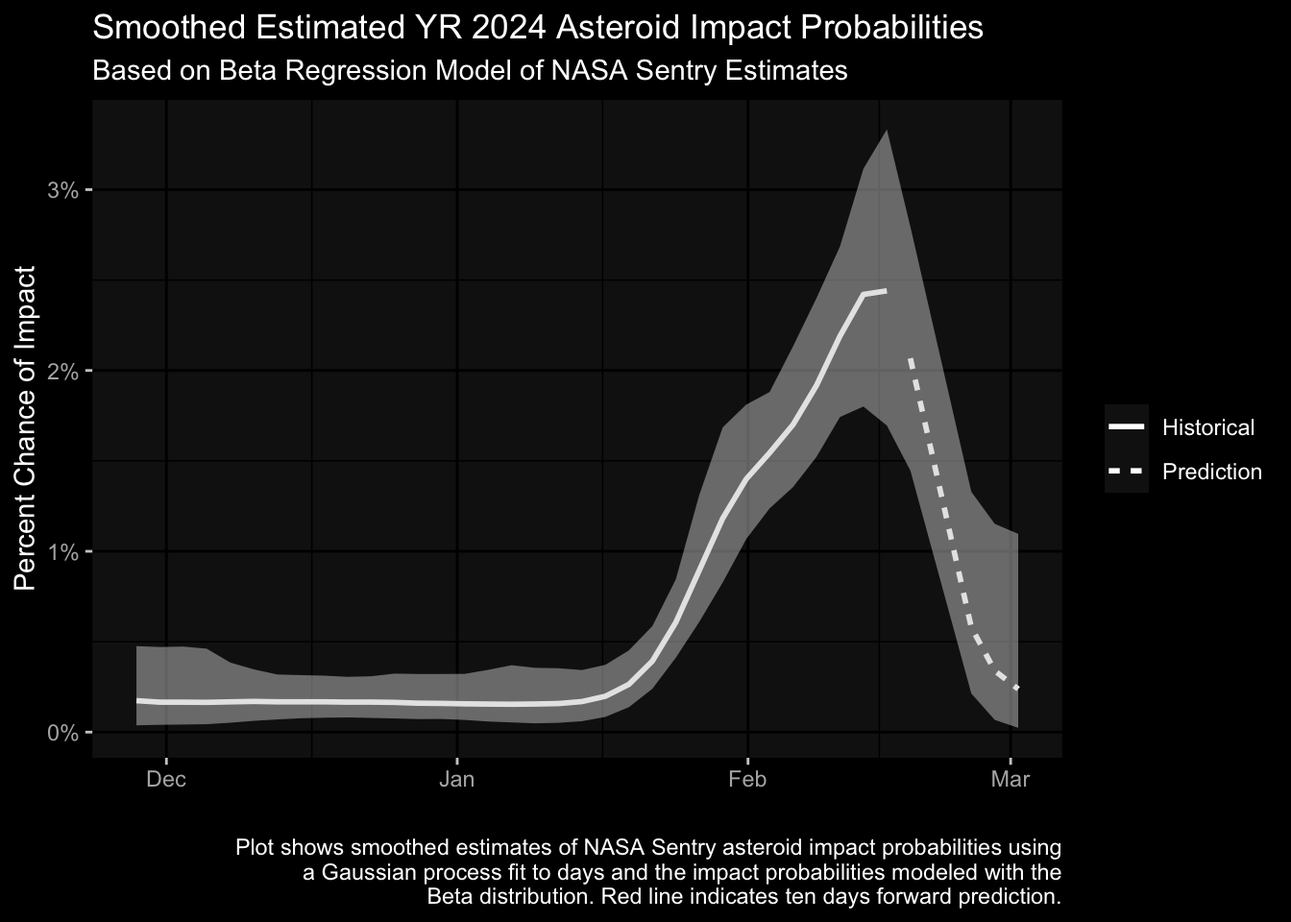
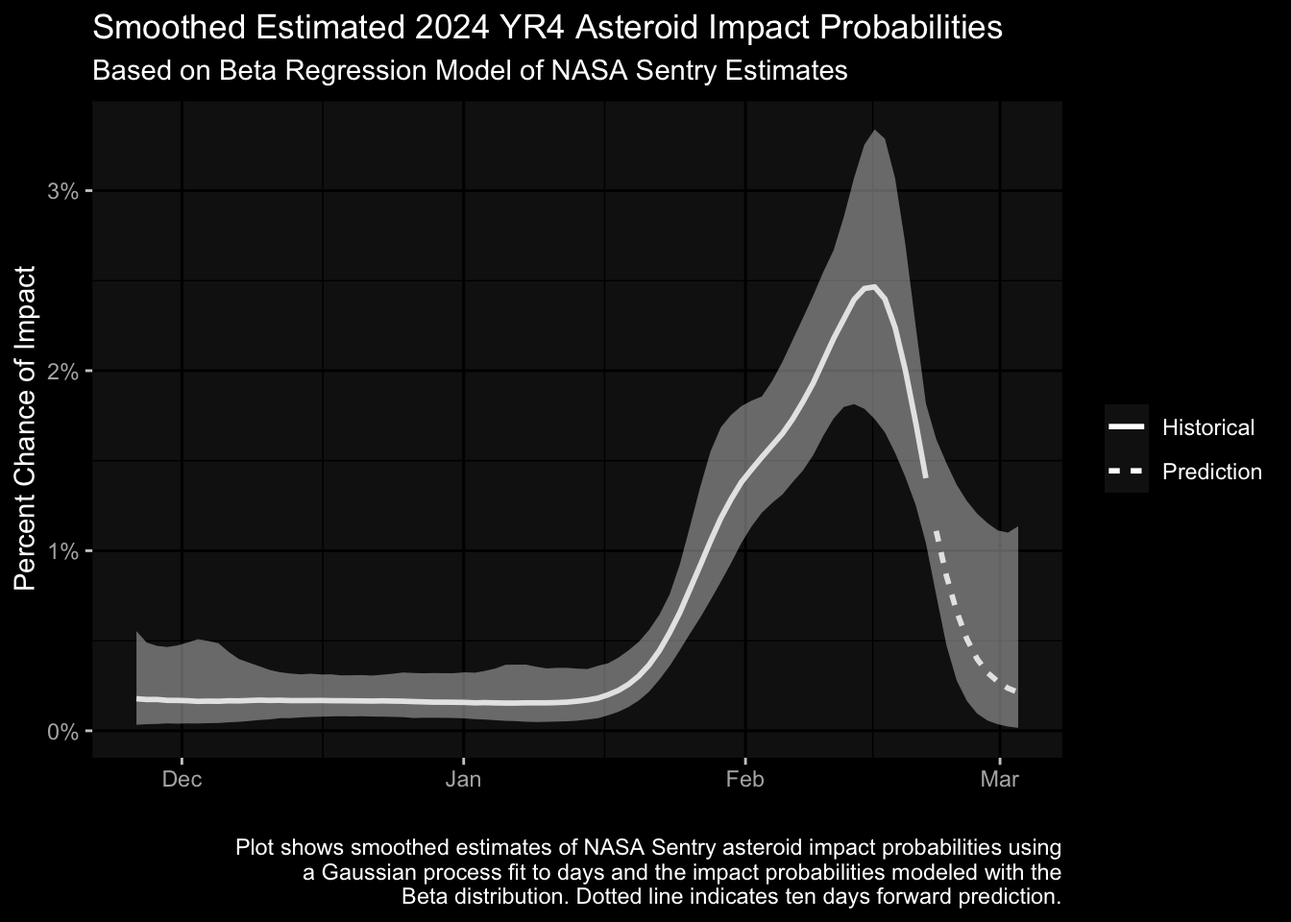
NASA Sentry smoother prediction 2025-02-21

diff --git a/_site/post/nasa_beta/index.html b/_site/post/nasa_beta/index.html
@@ -360,7 +360,7 @@ gtag('config', 'G-BHP1PJ9LEX', { 'anonymize_ip': true});
 <p>I really don’t have any criticisms of the model, and I would note it is remarkably clear as I can understand a fair amount of the paper without having much knowledge of orbital mechanics.</p>
 <p>The issue is not with the model, but what we do with the predictions of the model. Each day it produces an estimate of impact probabilities as a proportion of the simulations that have the asteroid slamming into Earth. But that probability will change over time as they get more observations of the asteroid. We can think of this additional variation as amounting to <em>measurement uncertainty</em>: we aren’t really sure what the asteroid is and what stands in its path to earth.</p>
 <p>As a result, the probabilities can go up and down from day to day, which can be confusing for people trying to follow along. As I mentioned, the probability just jumped up to 2.6% and then down to 1.5% in the same week.</p>
-<p>I collected the NASA Sentry data using the Wayback Machine (unfortunately, NASA does not have the historical data on its website, only the current day’s data). Here’s a plot of the estimates of YR 2024 impact probabilities since November 2024 up to February 18, 2025:</p>
+<p>I collected the NASA Sentry data using the Wayback Machine (unfortunately, NASA does not have the historical data on its website, only the current day’s data). Here’s a plot of the estimates of 2024 YR4 impact probabilities since November 2024 up to February 18, 2025:</p>
 <div class="cell" data-layout-align="center">
 <details class="code-fold">
 <summary>Show the code</summary>
@@ -371,7 +371,7 @@ gtag('config', 'G-BHP1PJ9LEX', { 'anonymize_ip': true});
 <span id="cb2-5"><a href="#cb2-5" aria-hidden="true" tabindex="-1"></a>  <span class="fu">scale_y_continuous</span>(<span class="at">labels =</span> scales<span class="sc">::</span><span class="fu">label_percent</span>()) <span class="sc">+</span></span>
 <span id="cb2-6"><a href="#cb2-6" aria-hidden="true" tabindex="-1"></a>  <span class="fu">labs</span>(<span class="at">y=</span><span class="st">"Asteroid Impact Chance"</span>,</span>
 <span id="cb2-7"><a href="#cb2-7" aria-hidden="true" tabindex="-1"></a>       <span class="at">x=</span><span class="st">""</span>,</span>
-<span id="cb2-8"><a href="#cb2-8" aria-hidden="true" tabindex="-1"></a>       <span class="at">caption=</span>stringr<span class="sc">::</span><span class="fu">str_wrap</span>(<span class="st">"Plot shows NASA Sentry asteroid impact estimates for YR 2024 as retrieved from the Wayback Machine. The plot starts in November 2024 and continues to February 18, 2025."</span>),<span class="at">title =</span> <span class="st">"NASA Sentry Asteroid Impact Estimates for YR 2024"</span>) <span class="sc">+</span></span>
+<span id="cb2-8"><a href="#cb2-8" aria-hidden="true" tabindex="-1"></a>       <span class="at">caption=</span>stringr<span class="sc">::</span><span class="fu">str_wrap</span>(<span class="st">"Plot shows NASA Sentry asteroid impact estimates for 2024 YR4 as retrieved from the Wayback Machine. The plot starts in November 2024 and continues to February 18, 2025."</span>),<span class="at">title =</span> <span class="st">"NASA Sentry Asteroid Impact Estimates for 2024 YR4"</span>) <span class="sc">+</span></span>
 <span id="cb2-9"><a href="#cb2-9" aria-hidden="true" tabindex="-1"></a>  ggdark<span class="sc">::</span><span class="fu">dark_mode</span>()</span></code><button title="Copy to Clipboard" class="code-copy-button"><i class="bi"></i></button></pre></div>
 </details>
 <div class="cell-output-display">
@@ -409,12 +409,12 @@ gtag('config', 'G-BHP1PJ9LEX', { 'anonymize_ip': true});
 <div class="cell-output cell-output-stdout">
 <pre><code>Running MCMC with 2 chains, at most 8 in parallel...
 
-Chain 1 finished in 44.4 seconds.
-Chain 2 finished in 48.8 seconds.
+Chain 1 finished in 46.0 seconds.
+Chain 2 finished in 50.3 seconds.
 
 Both chains finished successfully.
-Mean chain execution time: 46.6 seconds.
-Total execution time: 48.9 seconds.</code></pre>
+Mean chain execution time: 48.1 seconds.
+Total execution time: 50.5 seconds.</code></pre>
 </div>
 <details class="code-fold">
 <summary>Show the code</summary>
@@ -456,9 +456,9 @@ Total execution time: 48.9 seconds.</code></pre>
 <span id="cb6-27"><a href="#cb6-27" aria-hidden="true" tabindex="-1"></a>  <span class="fu">scale_linetype</span>(<span class="at">name=</span><span class="st">""</span>) <span class="sc">+</span></span>
 <span id="cb6-28"><a href="#cb6-28" aria-hidden="true" tabindex="-1"></a>  <span class="fu">labs</span>(<span class="at">y=</span><span class="st">"Percent Chance of Impact"</span>,</span>
 <span id="cb6-29"><a href="#cb6-29" aria-hidden="true" tabindex="-1"></a>       <span class="at">x=</span><span class="st">""</span>,</span>
-<span id="cb6-30"><a href="#cb6-30" aria-hidden="true" tabindex="-1"></a>       <span class="at">caption=</span>stringr<span class="sc">::</span><span class="fu">str_wrap</span>(<span class="st">"Plot shows smoothed estimates of NASA Sentry asteroid impact probabilities using a Gaussian process fit to days and the impact probabilities modeled with the Beta distribution. Red line indicates one week forward prediction."</span>)) <span class="sc">+</span></span>
+<span id="cb6-30"><a href="#cb6-30" aria-hidden="true" tabindex="-1"></a>       <span class="at">caption=</span>stringr<span class="sc">::</span><span class="fu">str_wrap</span>(<span class="st">"Plot shows smoothed estimates of NASA Sentry asteroid impact probabilities using a Gaussian process fit to days and the impact probabilities modeled with the Beta distribution. Dotted line indicates one week forward prediction."</span>)) <span class="sc">+</span></span>
 <span id="cb6-31"><a href="#cb6-31" aria-hidden="true" tabindex="-1"></a>  ggdark<span class="sc">::</span><span class="fu">dark_mode</span>() <span class="sc">+</span></span>
-<span id="cb6-32"><a href="#cb6-32" aria-hidden="true" tabindex="-1"></a>  <span class="fu">ggtitle</span>(<span class="st">"Smoothed Estimated YR 2024 Asteroid Impact Probabilities"</span>,</span>
+<span id="cb6-32"><a href="#cb6-32" aria-hidden="true" tabindex="-1"></a>  <span class="fu">ggtitle</span>(<span class="st">"Smoothed Estimated 2024 YR4 Asteroid Impact Probabilities"</span>,</span>
 <span id="cb6-33"><a href="#cb6-33" aria-hidden="true" tabindex="-1"></a>          <span class="at">subtitle=</span><span class="st">"Based on Beta Regression Model of NASA Sentry Estimates"</span>)</span></code><button title="Copy to Clipboard" class="code-copy-button"><i class="bi"></i></button></pre></div>
 </details>
 <div class="cell-output-display">
@@ -469,7 +469,7 @@ Total execution time: 48.9 seconds.</code></pre>
 </div>
 </div>
 </div>
-<p>What this plot shows is that our estimated uncertainty was quite low while the Sentry probabilities of YR 2024 impact were small–they didn’t change much prior to January. But once YR 2024 impact probability started to increase in January, the Beta distribution shows increasing uncertainty (the gray interval). Our model shows that the last Sentry number in our data, which was NASA’s estimate of 2.6% on February 18th that made world-wide headlines—is only one a range of plausible values. Our model reports that the true probability–net of measurement noise–could in fact be anywhere between 1.9% to 3%. Furthermore, the model says that it is quite uncertain what could happen in the next 10 days, with a range of impact probabilities of 0.75% to 6%. In other words, given these trends, it’s still pretty uncertain what the real probability of an impact is.</p>
+<p>What this plot shows is that our estimated uncertainty was quite low while the Sentry probabilities of 2024 YR4 impact were small–they didn’t change much prior to January. But once 2024 YR4 impact probability started to increase in January, the Beta distribution shows increasing uncertainty (the gray interval). Our model shows that the last Sentry number in our data, which was NASA’s estimate of 2.6% on February 18th that made world-wide headlines—is only one a range of plausible values. Our model reports that the true probability–net of measurement noise–could in fact be anywhere between 1.9% to 3%. Furthermore, the model says that it is quite uncertain what could happen in the next 10 days, with a range of impact probabilities of 0.75% to 6%. In other words, given these trends, it’s still pretty uncertain what the real probability of an impact is.</p>
 <p>What is fascinating is that the model–which is based only on data up to February 18th–predicts that the probability in future days would go down. In fact, it already has. NASA’s most recent estimate as of February 20th has fallen dramatically to 1.5%, or a decline of 42%. That’s a pretty big drop, and in any case shows that there is substantial uncertainty in these estimates that a single number just isn’t capturing. It really would be better if NASA reported an interval as described above.</p>
 <p>There’s other useful information we can get from the Beta distribution. As mentioned above, NASA’s model is a really complicated simulation. The Beta distribution can help us understand how robust these simulations are to hard-to-capture measurement noise with a parameter known as the <em>prior sample size</em> (also called dispersion or phi). Imagine that NASA could just draw a sample of orbital paths out of a big box of all the potential orbital paths—just like pollsters do by random sampling voters 😎. The larger the prior sample size estimate (assuming it’s a random sample of all possible outcomes), the less uncertainty there is in the impact probability.</p>
 <p>While NASA can’t do random samples—asteroids are pretty far away from us—the Beta distribution can report a number that indicates the level of confidence we should have <em>as if</em> NASA could poll impact events like a pollster. We can plot the <em>estimated prior sample size</em> from our Beta model below where each dot represents one plausible estimate of NASA’s actual sample size undergirding its simulation:</p>
@@ -602,51 +602,71 @@ Total execution time: 48.9 seconds.</code></pre>
 <div class="cell-output cell-output-stdout">
 <pre><code>Running MCMC with 2 chains, at most 8 in parallel...
 
-Chain 2 finished in 28.7 seconds.
-Chain 1 finished in 42.4 seconds.
+Chain 2 finished in 29.3 seconds.
+Chain 1 finished in 42.9 seconds.
 
 Both chains finished successfully.
-Mean chain execution time: 35.5 seconds.
-Total execution time: 42.5 seconds.</code></pre>
+Mean chain execution time: 36.1 seconds.
+Total execution time: 43.1 seconds.</code></pre>
 </div>
 </div>
 <p>And here are the model predictions with 10 days ahead plus fitted estimates to all previous NASA Sentry predictions:</p>
 <div class="cell" data-layout-align="center">
 <details class="code-fold">
 <summary>Show the code</summary>
-<div class="sourceCode cell-code" id="cb11"><pre class="sourceCode r code-with-copy"><code class="sourceCode r"><span id="cb11-1"><a href="#cb11-1" aria-hidden="true" tabindex="-1"></a><span class="co"># define over a range that goes 10 days into the future</span></span>
+<div class="sourceCode cell-code" id="cb11"><pre class="sourceCode r code-with-copy"><code class="sourceCode r"><span id="cb11-1"><a href="#cb11-1" aria-hidden="true" tabindex="-1"></a><span class="co"># function to convert to dates that are scaled per function</span></span>
 <span id="cb11-2"><a href="#cb11-2" aria-hidden="true" tabindex="-1"></a></span>
-<span id="cb11-3"><a href="#cb11-3" aria-hidden="true" tabindex="-1"></a>get_pred_recent <span class="ot">&lt;-</span> <span class="fu">plot_predictions</span>(fit_recent,<span class="at">by=</span><span class="st">"day_date"</span>,</span>
-<span id="cb11-4"><a href="#cb11-4" aria-hidden="true" tabindex="-1"></a>                                   <span class="at">newdata=</span><span class="fu">datagrid</span>(<span class="at">model=</span>fit_recent,</span>
-<span id="cb11-5"><a href="#cb11-5" aria-hidden="true" tabindex="-1"></a>                                                    <span class="at">day_date=</span><span class="fu">c</span>(<span class="fu">seq</span>(<span class="fu">min</span>(nasa_data<span class="sc">$</span>day_date),<span class="fu">max</span>(nasa_data<span class="sc">$</span>day_date),<span class="at">by=</span>.<span class="dv">25</span>),</span>
-<span id="cb11-6"><a href="#cb11-6" aria-hidden="true" tabindex="-1"></a>                                                               <span class="fu">seq</span>(<span class="fu">max</span>(nasa_data<span class="sc">$</span>day_date)<span class="sc">+</span>.<span class="dv">5</span>,<span class="fu">max</span>(nasa_data<span class="sc">$</span>day_date)<span class="sc">+</span><span class="dv">1</span>,<span class="at">by=</span>.<span class="dv">25</span>))),</span>
-<span id="cb11-7"><a href="#cb11-7" aria-hidden="true" tabindex="-1"></a>                 <span class="at">points=</span><span class="fl">0.5</span>,<span class="at">draw =</span> <span class="cn">FALSE</span>)</span>
-<span id="cb11-8"><a href="#cb11-8" aria-hidden="true" tabindex="-1"></a></span>
-<span id="cb11-9"><a href="#cb11-9" aria-hidden="true" tabindex="-1"></a><span class="co"># reconvert dates</span></span>
-<span id="cb11-10"><a href="#cb11-10" aria-hidden="true" tabindex="-1"></a></span>
-<span id="cb11-11"><a href="#cb11-11" aria-hidden="true" tabindex="-1"></a>get_pred_recent <span class="ot">&lt;-</span> <span class="fu">mutate</span>(get_pred_recent,</span>
-<span id="cb11-12"><a href="#cb11-12" aria-hidden="true" tabindex="-1"></a>                   <span class="at">real_dates=</span>day_date<span class="sc">*</span><span class="dv">10</span> <span class="sc">+</span> <span class="fu">mean</span>(<span class="fu">as.numeric</span>(nasa_data_new<span class="sc">$</span>date)),</span>
-<span id="cb11-13"><a href="#cb11-13" aria-hidden="true" tabindex="-1"></a>                   <span class="at">real_dates=</span><span class="fu">as.Date</span>(real_dates,</span>
-<span id="cb11-14"><a href="#cb11-14" aria-hidden="true" tabindex="-1"></a>                                      <span class="at">origin =</span> <span class="st">"1970-01-01"</span>),</span>
-<span id="cb11-15"><a href="#cb11-15" aria-hidden="true" tabindex="-1"></a>                   <span class="at">in_sample=</span><span class="fu">factor</span>(<span class="fu">as.numeric</span>(real_dates <span class="sc">&gt;=</span> <span class="fu">ymd</span>(<span class="st">"2025-02-18"</span>)),</span>
-<span id="cb11-16"><a href="#cb11-16" aria-hidden="true" tabindex="-1"></a>                                    <span class="at">labels=</span><span class="fu">c</span>(<span class="st">"Historical"</span>,</span>
-<span id="cb11-17"><a href="#cb11-17" aria-hidden="true" tabindex="-1"></a>                                             <span class="st">"Prediction"</span>)))</span>
-<span id="cb11-18"><a href="#cb11-18" aria-hidden="true" tabindex="-1"></a></span>
-<span id="cb11-19"><a href="#cb11-19" aria-hidden="true" tabindex="-1"></a>get_pred_recent <span class="sc">%&gt;%</span> </span>
-<span id="cb11-20"><a href="#cb11-20" aria-hidden="true" tabindex="-1"></a>  <span class="fu">ggplot</span>(<span class="fu">aes</span>(<span class="at">y=</span>estimate,</span>
-<span id="cb11-21"><a href="#cb11-21" aria-hidden="true" tabindex="-1"></a>             <span class="at">x=</span>real_dates)) <span class="sc">+</span></span>
-<span id="cb11-22"><a href="#cb11-22" aria-hidden="true" tabindex="-1"></a>  <span class="fu">geom_line</span>(<span class="fu">aes</span>(<span class="at">linetype=</span>in_sample),</span>
-<span id="cb11-23"><a href="#cb11-23" aria-hidden="true" tabindex="-1"></a>            <span class="at">linewidth=</span><span class="dv">1</span>) <span class="sc">+</span></span>
-<span id="cb11-24"><a href="#cb11-24" aria-hidden="true" tabindex="-1"></a>  <span class="fu">geom_ribbon</span>(<span class="fu">aes</span>(<span class="at">ymin=</span>conf.low,</span>
-<span id="cb11-25"><a href="#cb11-25" aria-hidden="true" tabindex="-1"></a>                  <span class="at">ymax=</span>conf.high),<span class="at">alpha=</span><span class="fl">0.5</span>) <span class="sc">+</span></span>
-<span id="cb11-26"><a href="#cb11-26" aria-hidden="true" tabindex="-1"></a>  <span class="fu">scale_y_continuous</span>(<span class="at">labels=</span>scales<span class="sc">::</span><span class="fu">label_percent</span>()) <span class="sc">+</span></span>
-<span id="cb11-27"><a href="#cb11-27" aria-hidden="true" tabindex="-1"></a>  <span class="fu">scale_linetype</span>(<span class="at">name=</span><span class="st">""</span>) <span class="sc">+</span></span>
-<span id="cb11-28"><a href="#cb11-28" aria-hidden="true" tabindex="-1"></a>  <span class="fu">labs</span>(<span class="at">y=</span><span class="st">"Percent Chance of Impact"</span>,</span>
-<span id="cb11-29"><a href="#cb11-29" aria-hidden="true" tabindex="-1"></a>       <span class="at">x=</span><span class="st">""</span>,</span>
-<span id="cb11-30"><a href="#cb11-30" aria-hidden="true" tabindex="-1"></a>       <span class="at">caption=</span>stringr<span class="sc">::</span><span class="fu">str_wrap</span>(<span class="st">"Plot shows smoothed estimates of NASA Sentry asteroid impact probabilities using a Gaussian process fit to days and the impact probabilities modeled with the Beta distribution. Red line indicates ten days forward prediction."</span>)) <span class="sc">+</span></span>
-<span id="cb11-31"><a href="#cb11-31" aria-hidden="true" tabindex="-1"></a>  ggdark<span class="sc">::</span><span class="fu">dark_mode</span>() <span class="sc">+</span></span>
-<span id="cb11-32"><a href="#cb11-32" aria-hidden="true" tabindex="-1"></a>  <span class="fu">ggtitle</span>(<span class="st">"Smoothed Estimated YR 2024 Asteroid Impact Probabilities"</span>,</span>
-<span id="cb11-33"><a href="#cb11-33" aria-hidden="true" tabindex="-1"></a>          <span class="at">subtitle=</span><span class="st">"Based on Beta Regression Model of NASA Sentry Estimates"</span>)</span></code><button title="Copy to Clipboard" class="code-copy-button"><i class="bi"></i></button></pre></div>
+<span id="cb11-3"><a href="#cb11-3" aria-hidden="true" tabindex="-1"></a>convert_date_func <span class="ot">&lt;-</span> <span class="cf">function</span>(date_vec,</span>
+<span id="cb11-4"><a href="#cb11-4" aria-hidden="true" tabindex="-1"></a>                          <span class="at">orig_date_vec=</span>nasa_data_new<span class="sc">$</span>date) {</span>
+<span id="cb11-5"><a href="#cb11-5" aria-hidden="true" tabindex="-1"></a>  </span>
+<span id="cb11-6"><a href="#cb11-6" aria-hidden="true" tabindex="-1"></a>  date_vec <span class="ot">&lt;-</span> (<span class="fu">as.numeric</span>(date_vec) <span class="sc">-</span> <span class="fu">mean</span>(<span class="fu">as.numeric</span>(orig_date_vec)))<span class="sc">/</span><span class="dv">10</span></span>
+<span id="cb11-7"><a href="#cb11-7" aria-hidden="true" tabindex="-1"></a>  </span>
+<span id="cb11-8"><a href="#cb11-8" aria-hidden="true" tabindex="-1"></a>  <span class="fu">return</span>(date_vec)</span>
+<span id="cb11-9"><a href="#cb11-9" aria-hidden="true" tabindex="-1"></a>  </span>
+<span id="cb11-10"><a href="#cb11-10" aria-hidden="true" tabindex="-1"></a>}</span>
+<span id="cb11-11"><a href="#cb11-11" aria-hidden="true" tabindex="-1"></a></span>
+<span id="cb11-12"><a href="#cb11-12" aria-hidden="true" tabindex="-1"></a><span class="co"># define over a range that goes 10 days into the future</span></span>
+<span id="cb11-13"><a href="#cb11-13" aria-hidden="true" tabindex="-1"></a></span>
+<span id="cb11-14"><a href="#cb11-14" aria-hidden="true" tabindex="-1"></a>date_range <span class="ot">&lt;-</span> <span class="fu">as.numeric</span>(<span class="fu">max</span>(nasa_data_new<span class="sc">$</span>date) <span class="sc">-</span> <span class="fu">min</span>(nasa_data_new<span class="sc">$</span>date))</span>
+<span id="cb11-15"><a href="#cb11-15" aria-hidden="true" tabindex="-1"></a></span>
+<span id="cb11-16"><a href="#cb11-16" aria-hidden="true" tabindex="-1"></a>date_predict_range <span class="ot">&lt;-</span> <span class="fu">seq</span>(<span class="fu">min</span>(nasa_data_new<span class="sc">$</span>date),<span class="fu">max</span>(nasa_data_new<span class="sc">$</span>date)<span class="sc">+</span><span class="dv">10</span>,<span class="at">length.out=</span>date_range)</span>
+<span id="cb11-17"><a href="#cb11-17" aria-hidden="true" tabindex="-1"></a></span>
+<span id="cb11-18"><a href="#cb11-18" aria-hidden="true" tabindex="-1"></a>date_predict_range_trans <span class="ot">&lt;-</span> <span class="fu">convert_date_func</span>(date_predict_range)</span>
+<span id="cb11-19"><a href="#cb11-19" aria-hidden="true" tabindex="-1"></a></span>
+<span id="cb11-20"><a href="#cb11-20" aria-hidden="true" tabindex="-1"></a>get_pred_recent <span class="ot">&lt;-</span> <span class="fu">plot_predictions</span>(fit_recent,<span class="at">by=</span><span class="st">"day_date"</span>,</span>
+<span id="cb11-21"><a href="#cb11-21" aria-hidden="true" tabindex="-1"></a>                                   <span class="at">newdata=</span><span class="fu">datagrid</span>(<span class="at">model=</span>fit_recent,</span>
+<span id="cb11-22"><a href="#cb11-22" aria-hidden="true" tabindex="-1"></a>                                                    <span class="at">day_date=</span>date_predict_range_trans),</span>
+<span id="cb11-23"><a href="#cb11-23" aria-hidden="true" tabindex="-1"></a>                 <span class="at">points=</span><span class="fl">0.5</span>,<span class="at">draw =</span> <span class="cn">FALSE</span>,</span>
+<span id="cb11-24"><a href="#cb11-24" aria-hidden="true" tabindex="-1"></a>                 <span class="at">nug=</span><span class="fl">1e-07</span>)</span>
+<span id="cb11-25"><a href="#cb11-25" aria-hidden="true" tabindex="-1"></a></span>
+<span id="cb11-26"><a href="#cb11-26" aria-hidden="true" tabindex="-1"></a><span class="co"># reconvert dates</span></span>
+<span id="cb11-27"><a href="#cb11-27" aria-hidden="true" tabindex="-1"></a></span>
+<span id="cb11-28"><a href="#cb11-28" aria-hidden="true" tabindex="-1"></a>get_pred_recent <span class="ot">&lt;-</span> <span class="fu">mutate</span>(get_pred_recent,</span>
+<span id="cb11-29"><a href="#cb11-29" aria-hidden="true" tabindex="-1"></a>                   <span class="at">real_dates=</span>date_predict_range,</span>
+<span id="cb11-30"><a href="#cb11-30" aria-hidden="true" tabindex="-1"></a>                   <span class="at">in_sample=</span><span class="fu">factor</span>(<span class="fu">as.numeric</span>(real_dates <span class="sc">&gt;=</span> lubridate<span class="sc">::</span><span class="fu">today</span>()),</span>
+<span id="cb11-31"><a href="#cb11-31" aria-hidden="true" tabindex="-1"></a>                                    <span class="at">labels=</span><span class="fu">c</span>(<span class="st">"Historical"</span>,</span>
+<span id="cb11-32"><a href="#cb11-32" aria-hidden="true" tabindex="-1"></a>                                             <span class="st">"Prediction"</span>)))</span>
+<span id="cb11-33"><a href="#cb11-33" aria-hidden="true" tabindex="-1"></a></span>
+<span id="cb11-34"><a href="#cb11-34" aria-hidden="true" tabindex="-1"></a>out_plot <span class="ot">&lt;-</span> get_pred_recent <span class="sc">%&gt;%</span> </span>
+<span id="cb11-35"><a href="#cb11-35" aria-hidden="true" tabindex="-1"></a>  <span class="fu">ggplot</span>(<span class="fu">aes</span>(<span class="at">y=</span>estimate,</span>
+<span id="cb11-36"><a href="#cb11-36" aria-hidden="true" tabindex="-1"></a>             <span class="at">x=</span>real_dates)) <span class="sc">+</span></span>
+<span id="cb11-37"><a href="#cb11-37" aria-hidden="true" tabindex="-1"></a>  <span class="fu">geom_line</span>(<span class="fu">aes</span>(<span class="at">linetype=</span>in_sample),</span>
+<span id="cb11-38"><a href="#cb11-38" aria-hidden="true" tabindex="-1"></a>            <span class="at">linewidth=</span><span class="dv">1</span>) <span class="sc">+</span></span>
+<span id="cb11-39"><a href="#cb11-39" aria-hidden="true" tabindex="-1"></a>  <span class="fu">geom_ribbon</span>(<span class="fu">aes</span>(<span class="at">ymin=</span>conf.low,</span>
+<span id="cb11-40"><a href="#cb11-40" aria-hidden="true" tabindex="-1"></a>                  <span class="at">ymax=</span>conf.high),<span class="at">alpha=</span><span class="fl">0.5</span>) <span class="sc">+</span></span>
+<span id="cb11-41"><a href="#cb11-41" aria-hidden="true" tabindex="-1"></a>  <span class="fu">scale_y_continuous</span>(<span class="at">labels=</span>scales<span class="sc">::</span><span class="fu">label_percent</span>()) <span class="sc">+</span></span>
+<span id="cb11-42"><a href="#cb11-42" aria-hidden="true" tabindex="-1"></a>  <span class="fu">scale_linetype</span>(<span class="at">name=</span><span class="st">""</span>) <span class="sc">+</span></span>
+<span id="cb11-43"><a href="#cb11-43" aria-hidden="true" tabindex="-1"></a>  <span class="fu">labs</span>(<span class="at">y=</span><span class="st">"Percent Chance of Impact"</span>,</span>
+<span id="cb11-44"><a href="#cb11-44" aria-hidden="true" tabindex="-1"></a>       <span class="at">x=</span><span class="st">""</span>,</span>
+<span id="cb11-45"><a href="#cb11-45" aria-hidden="true" tabindex="-1"></a>       <span class="at">caption=</span>stringr<span class="sc">::</span><span class="fu">str_wrap</span>(<span class="st">"Plot shows smoothed estimates of NASA Sentry asteroid impact probabilities using a Gaussian process fit to days and the impact probabilities modeled with the Beta distribution. Dotted line indicates ten days forward prediction."</span>)) <span class="sc">+</span></span>
+<span id="cb11-46"><a href="#cb11-46" aria-hidden="true" tabindex="-1"></a>  ggdark<span class="sc">::</span><span class="fu">dark_mode</span>() <span class="sc">+</span></span>
+<span id="cb11-47"><a href="#cb11-47" aria-hidden="true" tabindex="-1"></a>  <span class="fu">ggtitle</span>(<span class="st">"Smoothed Estimated 2024 YR4 Asteroid Impact Probabilities"</span>,</span>
+<span id="cb11-48"><a href="#cb11-48" aria-hidden="true" tabindex="-1"></a>          <span class="at">subtitle=</span><span class="st">"Based on Beta Regression Model of NASA Sentry Estimates"</span>)</span>
+<span id="cb11-49"><a href="#cb11-49" aria-hidden="true" tabindex="-1"></a></span>
+<span id="cb11-50"><a href="#cb11-50" aria-hidden="true" tabindex="-1"></a><span class="fu">ggsave</span>(<span class="at">plot =</span> out_plot,<span class="at">filename =</span> <span class="st">"~/website/post/nasa_beta/nasa_sentry_predict.png"</span>,</span>
+<span id="cb11-51"><a href="#cb11-51" aria-hidden="true" tabindex="-1"></a>       <span class="at">width=</span><span class="dv">6</span>,<span class="at">height=</span><span class="dv">6</span>,<span class="at">dpi=</span><span class="dv">600</span>)</span>
+<span id="cb11-52"><a href="#cb11-52" aria-hidden="true" tabindex="-1"></a></span>
+<span id="cb11-53"><a href="#cb11-53" aria-hidden="true" tabindex="-1"></a>out_plot</span></code><button title="Copy to Clipboard" class="code-copy-button"><i class="bi"></i></button></pre></div>
 </details>
 <div class="cell-output-display">
 <div class="quarto-figure quarto-figure-center">
